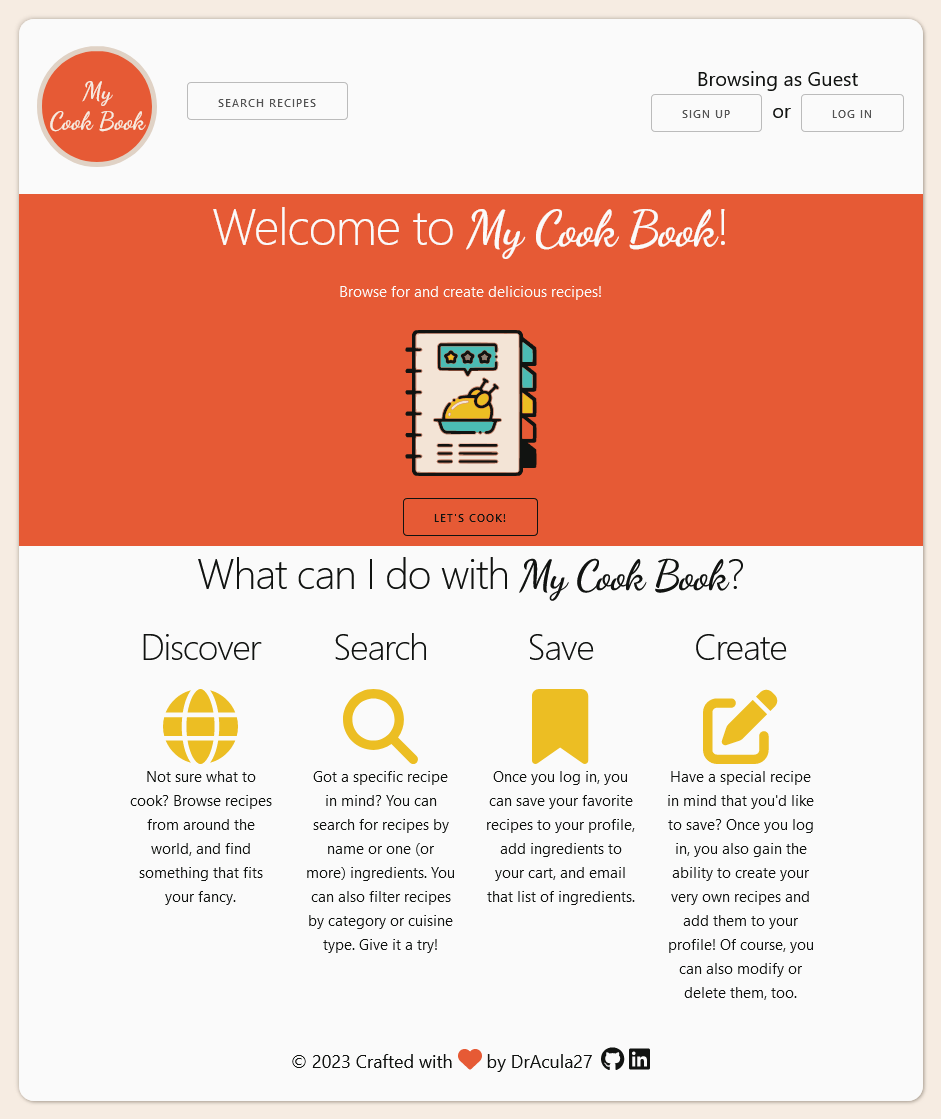
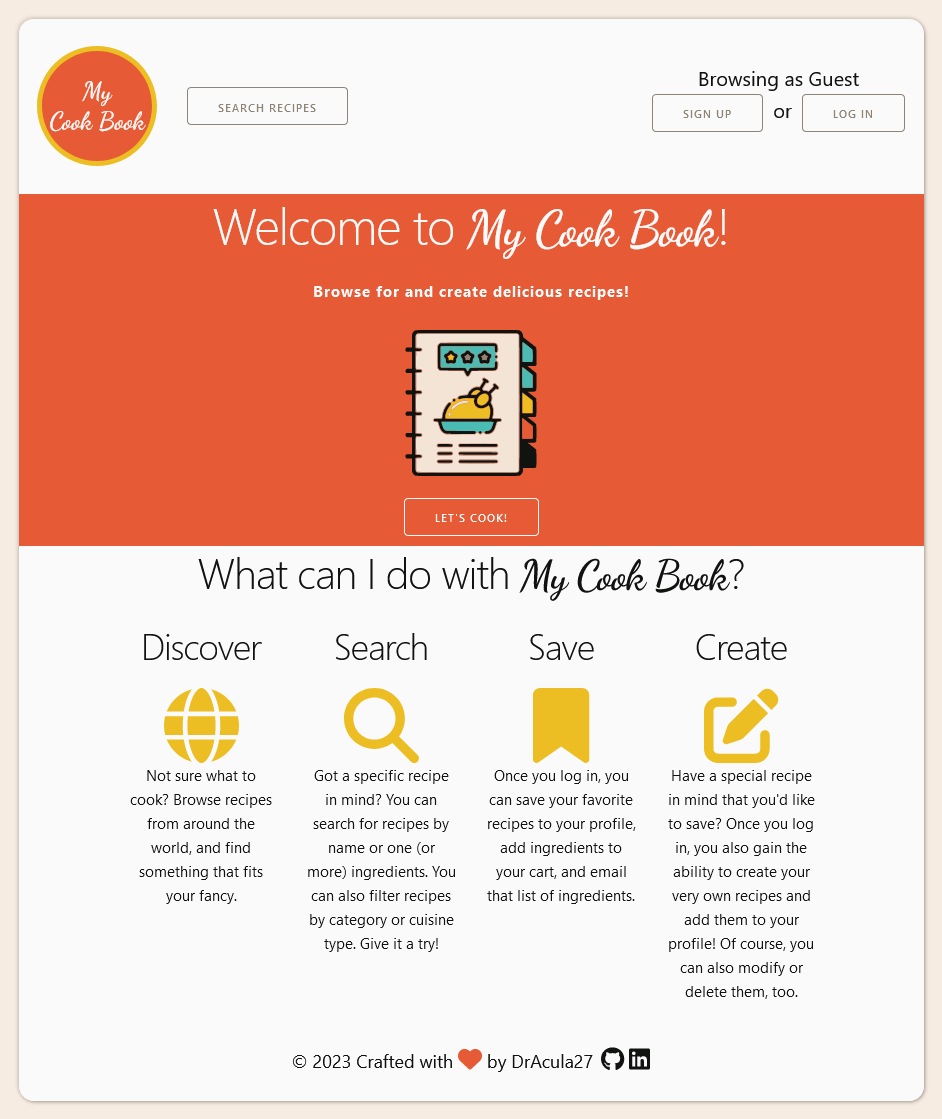
setup show_single_recipe page

diff --git a/src/pages/show_single_recipe/index.js b/src/pages/show_single_recipe/index.js
@@ -1,0 +1,56 @@
+import React, { useContext } from "react";
+import { AppContext } from "../../contexts/app_context";
+import "./index.css";
+
+const ShowSingleRecipe = () => {
+  //   const [recipeData] = useContext(AppContext);
+
+  return (
+    <div className="grid-area-main recipe-container">
+      <h1>Recipe Title</h1>
+      <div className="area-category">
+        <h5>Area: </h5>
+        <h5>Category: </h5>
+      </div>
+      <img
+        src="https://dummyimage.com/200x200/f6ece2/111311.png&text=recipe+image"
+        alt="Recipe Thumbnail"
+      />
+      <iframe
+        style={{ display: "block" }}
+        width="300"
+        height="200"
+        src="https://www.youtube.com/embed/HkywCtna9t0"
+        title="Recipe Title"
+        frameborder="0"
+        allow="accelerometer; autoplay; clipboard-write; encrypted-media; gyroscope; picture-in-picture; web-share"
+        allowfullscreen
+      ></iframe>
+      <h5>Ingredients</h5>
+      <div className="ingredients-list">
+        <ol>
+          <li>ingredient</li>
+          <li>list</li>
+          <li>here</li>
+        </ol>
+      </div>
+      <div className="ingredient-buttons">
+        <button>Select All</button>
+        <button>Delselect All</button>
+        <button>Add to Cart</button>
+      </div>
+      <h5>Instructions</h5>
+      <p>
+        Lorem ipsum dolor sit amet, consectetur adipiscing elit, sed do eiusmod
+        tempor incididunt ut labore et dolore magna aliqua. Ut enim ad minim
+        veniam, quis nostrud exercitation ullamco laboris nisi ut aliquip ex ea
+        commodo consequat. Duis aute irure dolor in reprehenderit in voluptate
+        velit esse cillum dolore eu fugiat nulla pariatur. Excepteur sint
+        occaecat cupidatat non proident, sunt in culpa qui officia deserunt
+        mollit anim id est laborum.
+      </p>
+    </div>
+  );
+};
+
+export default ShowSingleRecipe;

diff --git a/src/pages/show_single_recipe/index.css b/src/pages/show_single_recipe/index.css
@@ -1,0 +1,46 @@
+.recipe-container {
+  background-color: var(--orange);
+  color: var(--white);
+  display: flex;
+  flex-direction: column;
+  align-items: center;
+  margin: 0 2rem;
+  border: 4px solid var(--accent-color);
+  border-radius: 2rem;
+}
+
+.recipe-container img {
+  border-radius: 25%;
+  border: 2px solid var(--text-dark);
+  margin-bottom: 2rem;
+}
+
+.recipe-container iframe {
+  margin: 2rem auto;
+}
+
+.recipe-container button {
+  border: 1px solid var(--white);
+  color: var(--white);
+  margin-bottom: 2rem;
+}
+
+.recipe-container p {
+  max-width: 90%;
+  text-align: left;
+}
+
+.ingredients-list {
+  text-align: left;
+}
+
+.ingredient-buttons {
+  display: flex;
+  gap: 1rem;
+  margin-bottom: 1rem;
+}
+
+.area-category {
+  display: flex;
+  gap: 2rem;
+}

diff --git a/src/App.js b/src/App.js
@@ -12,6 +12,7 @@ import LogInForm from "./components/login_form";
 import { getUserFromSession } from "./utilities/user-functions";
 import { AppContext } from "./contexts/app_context";
 import Loader from "react-js-loader";
+import ShowSingleRecipe from "./pages/show_single_recipe";
 
 function App() {
   const [callMade, setCallMade] = useState(false);
@@ -38,6 +39,7 @@ function App() {
               <Route path="/users/signup" element={<SignUpForm />} />
               <Route path="/users/login" element={<LogInForm />} />
               <Route path="/recipes/view" element={<ViewRecipes />} />
+              <Route path="/recipe/show" element={<ShowSingleRecipe />} />
 
               {/* protected routes: TODO */}
               <Route path="/profile" element={<Profile />} />

diff --git a/src/pages/view_recipes/index.js b/src/pages/view_recipes/index.js
@@ -1,14 +1,16 @@
 import axios from "axios";
-import React, { useState } from "react";
+import React, { useContext, useState } from "react";
 import RecipeCardContainer from "../../components/recipe_card_container";
 import RecipeCard from "../../components/recipe_card";
 import SearchAndFilter from "../../components/search_and_filter";
 import { useEffect } from "react";
 import { useRef } from "react";
+import { AppContext } from "../../contexts/app_context";
 
 const ViewRecipes = () => {
   const [recipeArray, setRecipeArray] = useState([]);
   const [searchQueries, setSearchQueries] = useState([]);
+  // const [recipeData, setRecipeData] = useContext(AppContext);
 
   let isFirstRender = useRef(true);
 

diff --git a/src/contexts/app_context.js b/src/contexts/app_context.js
@@ -4,6 +4,19 @@ export const AppContext = createContext();
 
 const AppContextProvider = ({ children }) => {
   const [user, setUser] = useState(false);
+  const [recipeData, setRecipeData] = useState({
+    idMeal: "",
+    strMeal: "",
+    strCategory: "",
+    strArea: "",
+    strInstructions: "",
+    strMealThumb: "",
+    strTags: [],
+    strYoutube: "",
+    strIngredients: [],
+    strMeasures: [],
+  });
+
   const [cart, setCart] = useState({
     orderId: "",
     checkoutDone: false,
@@ -18,6 +31,9 @@ const AppContextProvider = ({ children }) => {
       value={{
         user,
         setUser,
+
+        recipeData,
+        setRecipeData,
 
         cart,
         setCart,

diff --git a/src/components/recipe_card_container/index.js b/src/components/recipe_card_container/index.js
@@ -1,4 +1,5 @@
 import React from "react";
+import { Link } from "react-router-dom";
 import "./index.css";
 
 const RecipeCardContainer = ({ children, searchQueries }) => {
@@ -12,9 +13,11 @@ const RecipeCardContainer = ({ children, searchQueries }) => {
       {searchQueries[0] === "random" ? (
         <h4>Need a little inspiration? Here is a random recipe:</h4>
       ) : (
-        <h4>Showing results for: </h4>
+        <h4>Showing results for: {[searchQueries]}</h4>
       )}
-      <section>{children}</section>
+      <section>
+        <Link to="/recipe/show">{children}</Link>
+      </section>
     </div>
   );
 };

diff --git a/src/pages/home/index.css b/src/pages/home/index.css
@@ -28,8 +28,8 @@
 }
 
 .welcome button {
-  color: var(--text-dark);
-  border: 1px solid var(--text-dark);
+  color: var(--white);
+  border: 1px solid var(--white);
   margin-bottom: 1rem;
 }
 

diff --git a/src/index.css b/src/index.css
@@ -30,6 +30,11 @@ body {
   background-color: var(--tan-1);
 }
 
+a {
+  text-decoration: none;
+  color: var(--text-dark);
+}
+
 .app-title {
   font-family: "Dancing Script", cursive;
 }
